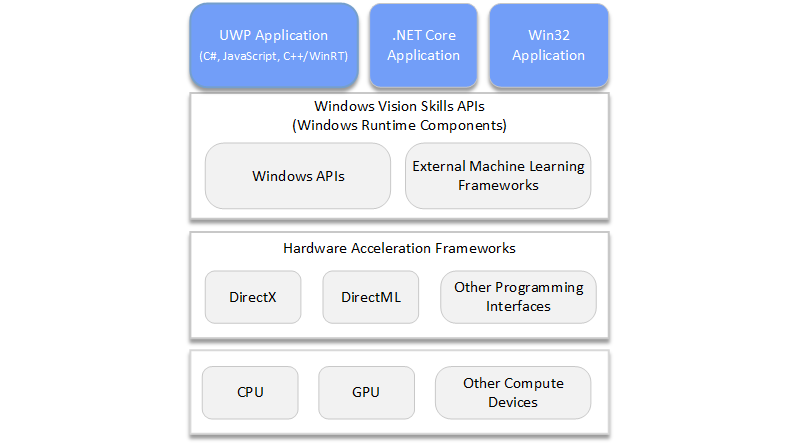
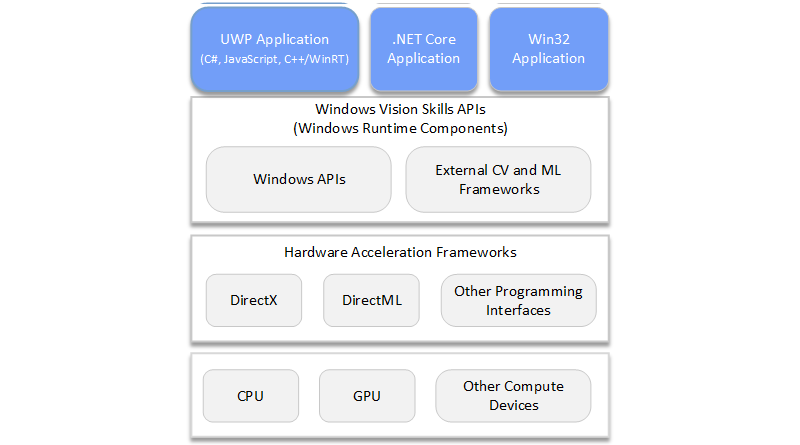
updating diagram image and index text given feedback received

diff --git a/docs/windows-vision-skills/index.md b/docs/windows-vision-skills/index.md
@@ -16,7 +16,7 @@ ms.localizationpriority: medium
 
 Implementing and integrating efficient machine learning and computer vision solutions is a hard task for developers. The industry is moving at a fast pace and the amount of custom-tailored solutions coming out makes it strenuous for application developers to keep up. Existing APIs and lower-level frameworks add a steep learning curve before developers can leverage them effectively.
 
-The **Windows Vision Skills** framework is meant to standardize the way computer vision modules are put to use within a Windows application, running on the local device. It abstracts complexities into a single programming paradigm with standardized primitives, helping developers focus on building awesome computer vision applications.
+The **Windows Vision Skills** framework is meant to make it easier to utilize computer vision. It standardizes the way computer vision modules are put to use within a Windows application, running on the local device. It abstracts complexities into a single programming paradigm with standardized primitives, helping developers focus on building awesome computer vision applications.
 
 ![Diagram of how Windows Vision Skills fits into the development stack; starts with the bottom layer (GPU, CPU, VPU, etc); on top of that are hardware acceleration frameworks (DirectX, DirectML, and others); the next layer is the Windows Vision Skills API, consisting of Windows APIs and third-party frameworks; and the top layer consists of UWP, .NET Core, and Win32 applications](../images/vision-skills-diagram2-wide.png)
 
